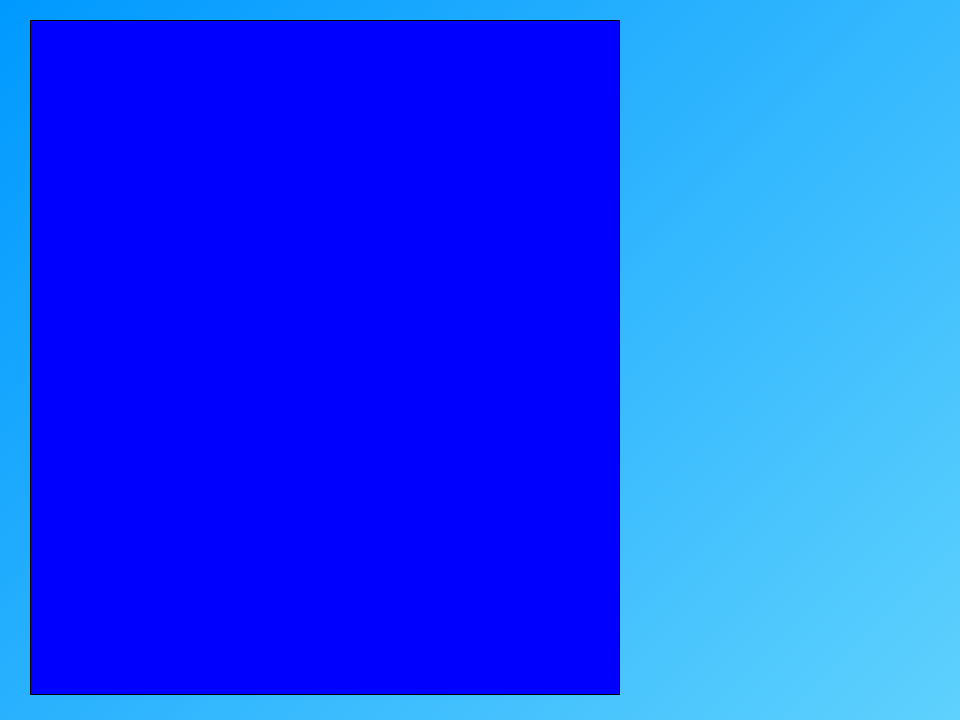
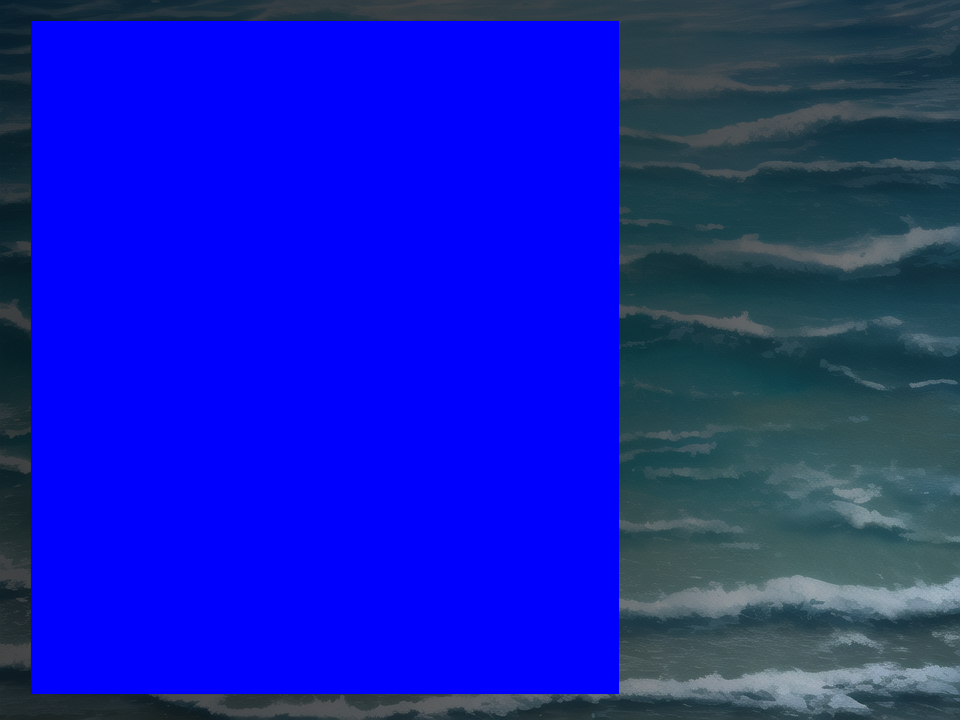
修改背景

diff --git a/asset.py b/asset.py
@@ -153,7 +153,7 @@ class ManualContent():
             Struct(""),
             Struct("背景故事:"),
             Struct("红魔馆旁的雾之湖，似乎受到了某种奇怪异变的影响。"),
-            Struct("即使在盛夏阳光的照耀下散去雾气的湖面，也散发着不自然的冷气。"),
+            Struct("即使在初夏阳光的照耀下散去雾气的湖面，也散发着不自然的冷气。"),
             Struct("以雾之湖为基地，由自然力量具象出的冰之小妖精琪露诺，"),
             Struct("也因为这异变的影响变得更加的强大和躁动了起来。"),
             Struct("而灵梦和魔理沙，也已在前往雾之湖一探究竟的路上。")

diff --git a/game.py b/game.py
@@ -12,7 +12,7 @@ import os
 
 pygame.init()
 pygame.mixer.set_num_channels(40)
-pygame.display.set_caption('STGGAME')
+pygame.display.set_caption('东方槐夏寒晶 ~ Cold Lake In Scorching Gensokyo  Ver 0.0.1a')
 V2 = pygame.math.Vector2
 # posvec：位置向量 speedvec：速度向量
 
